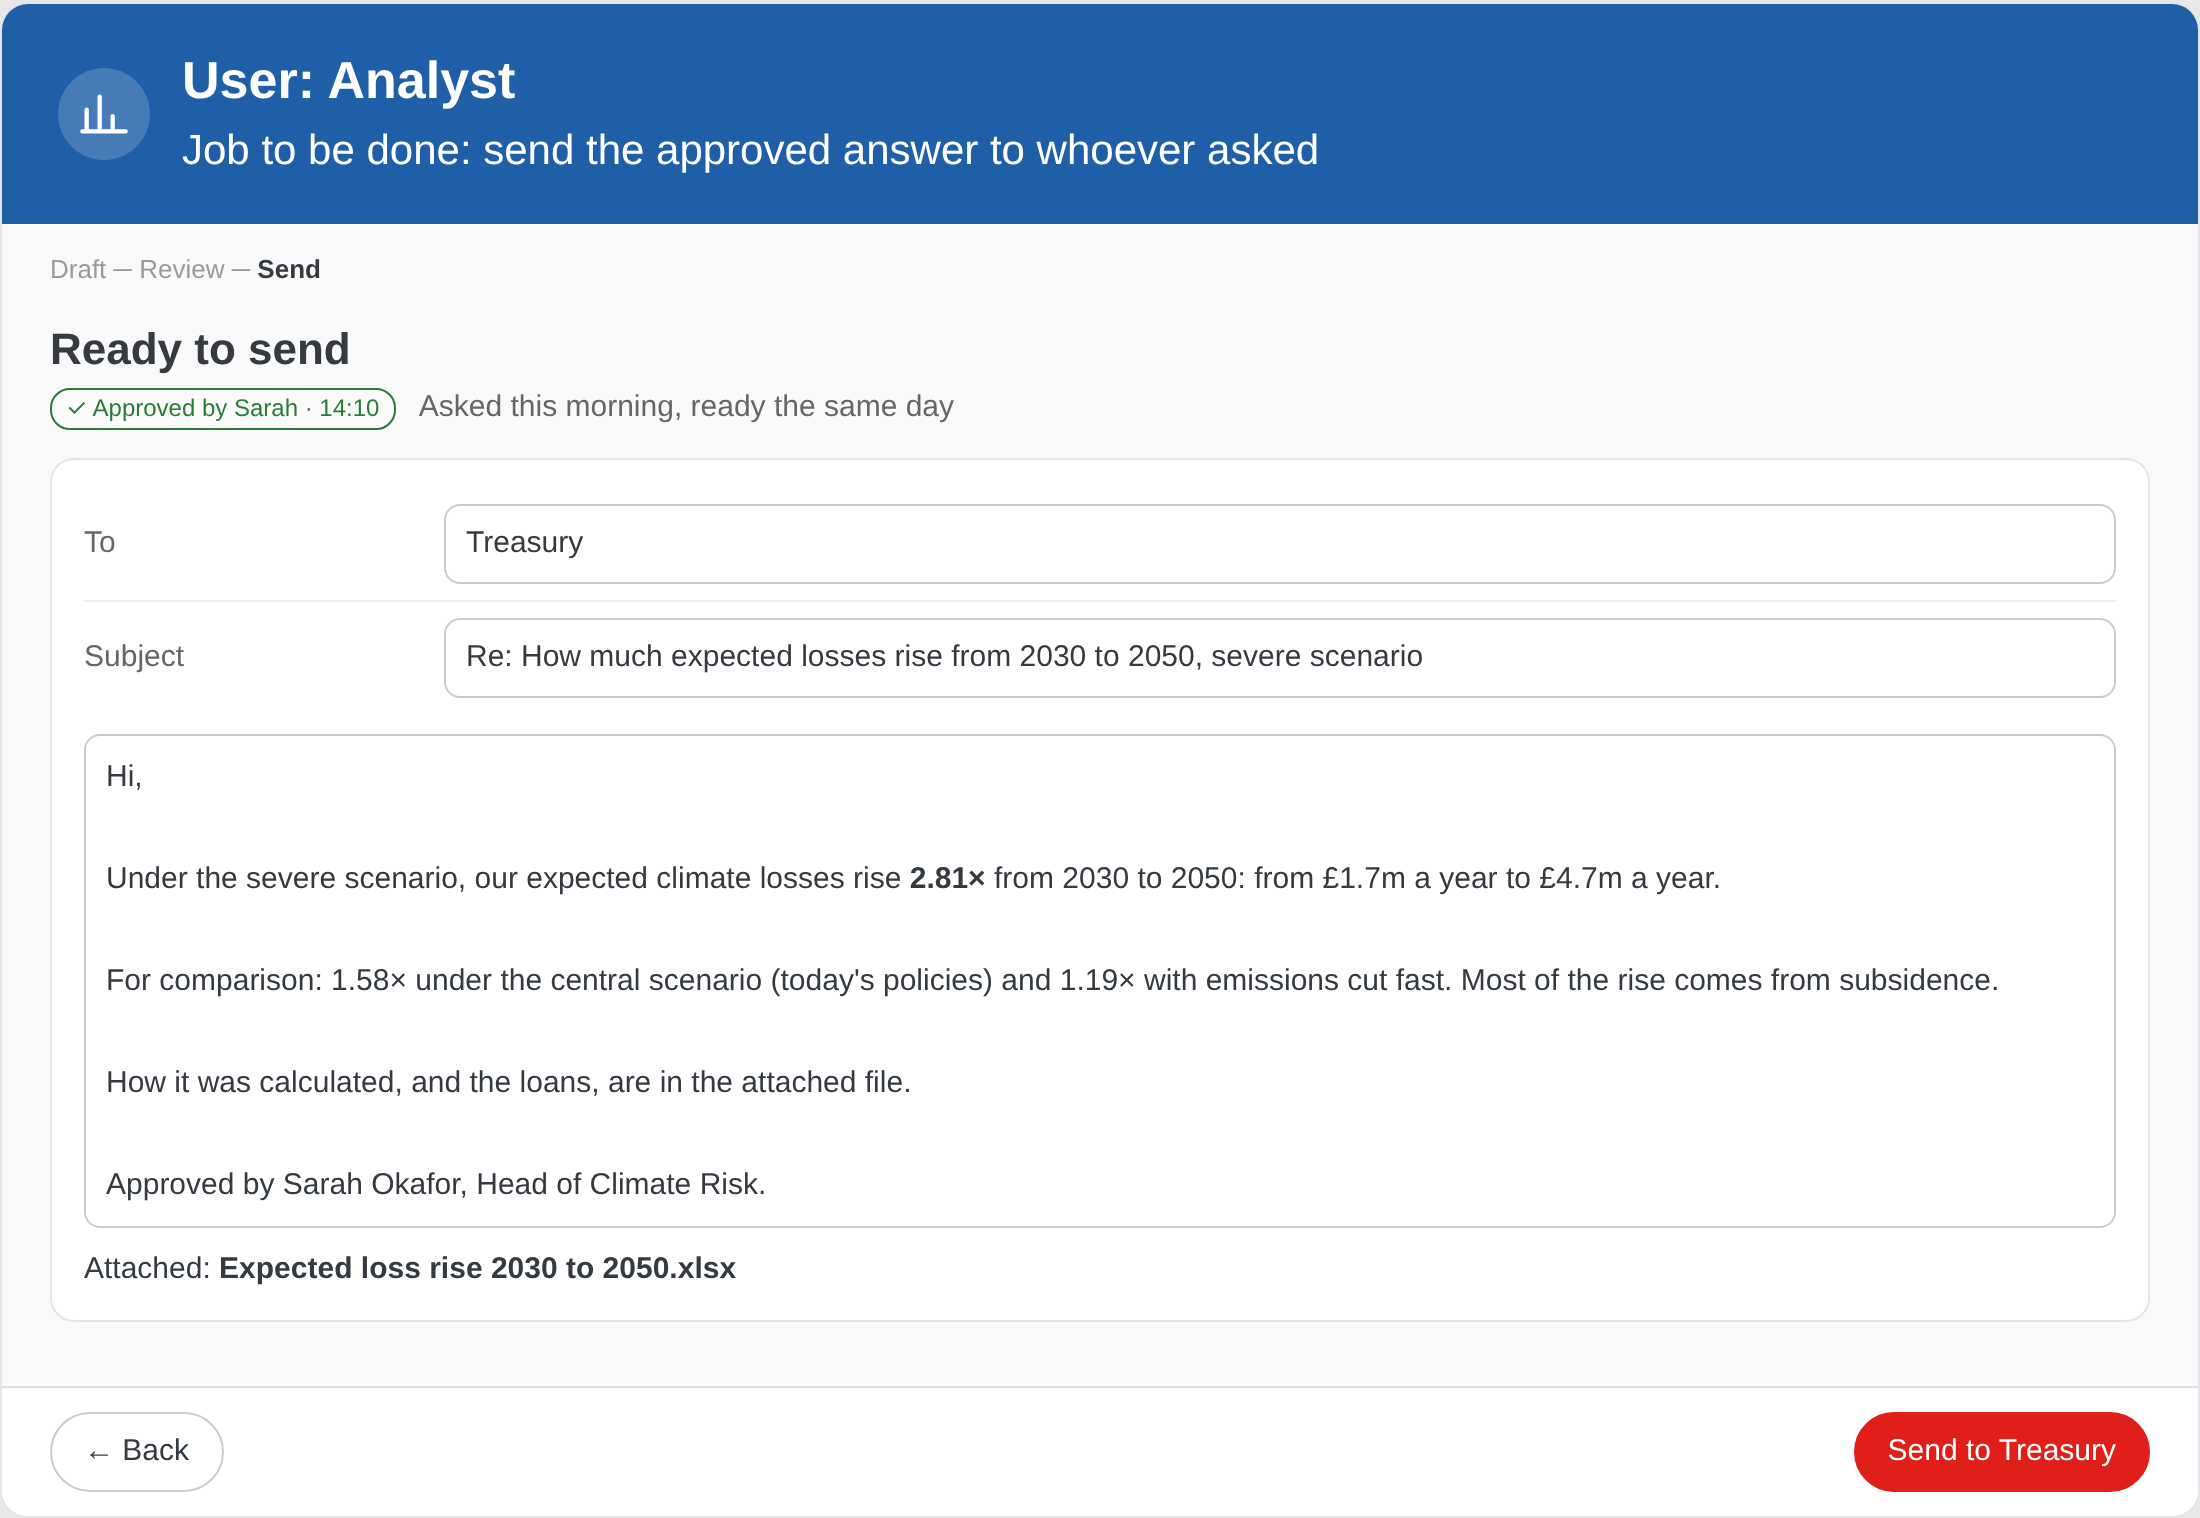
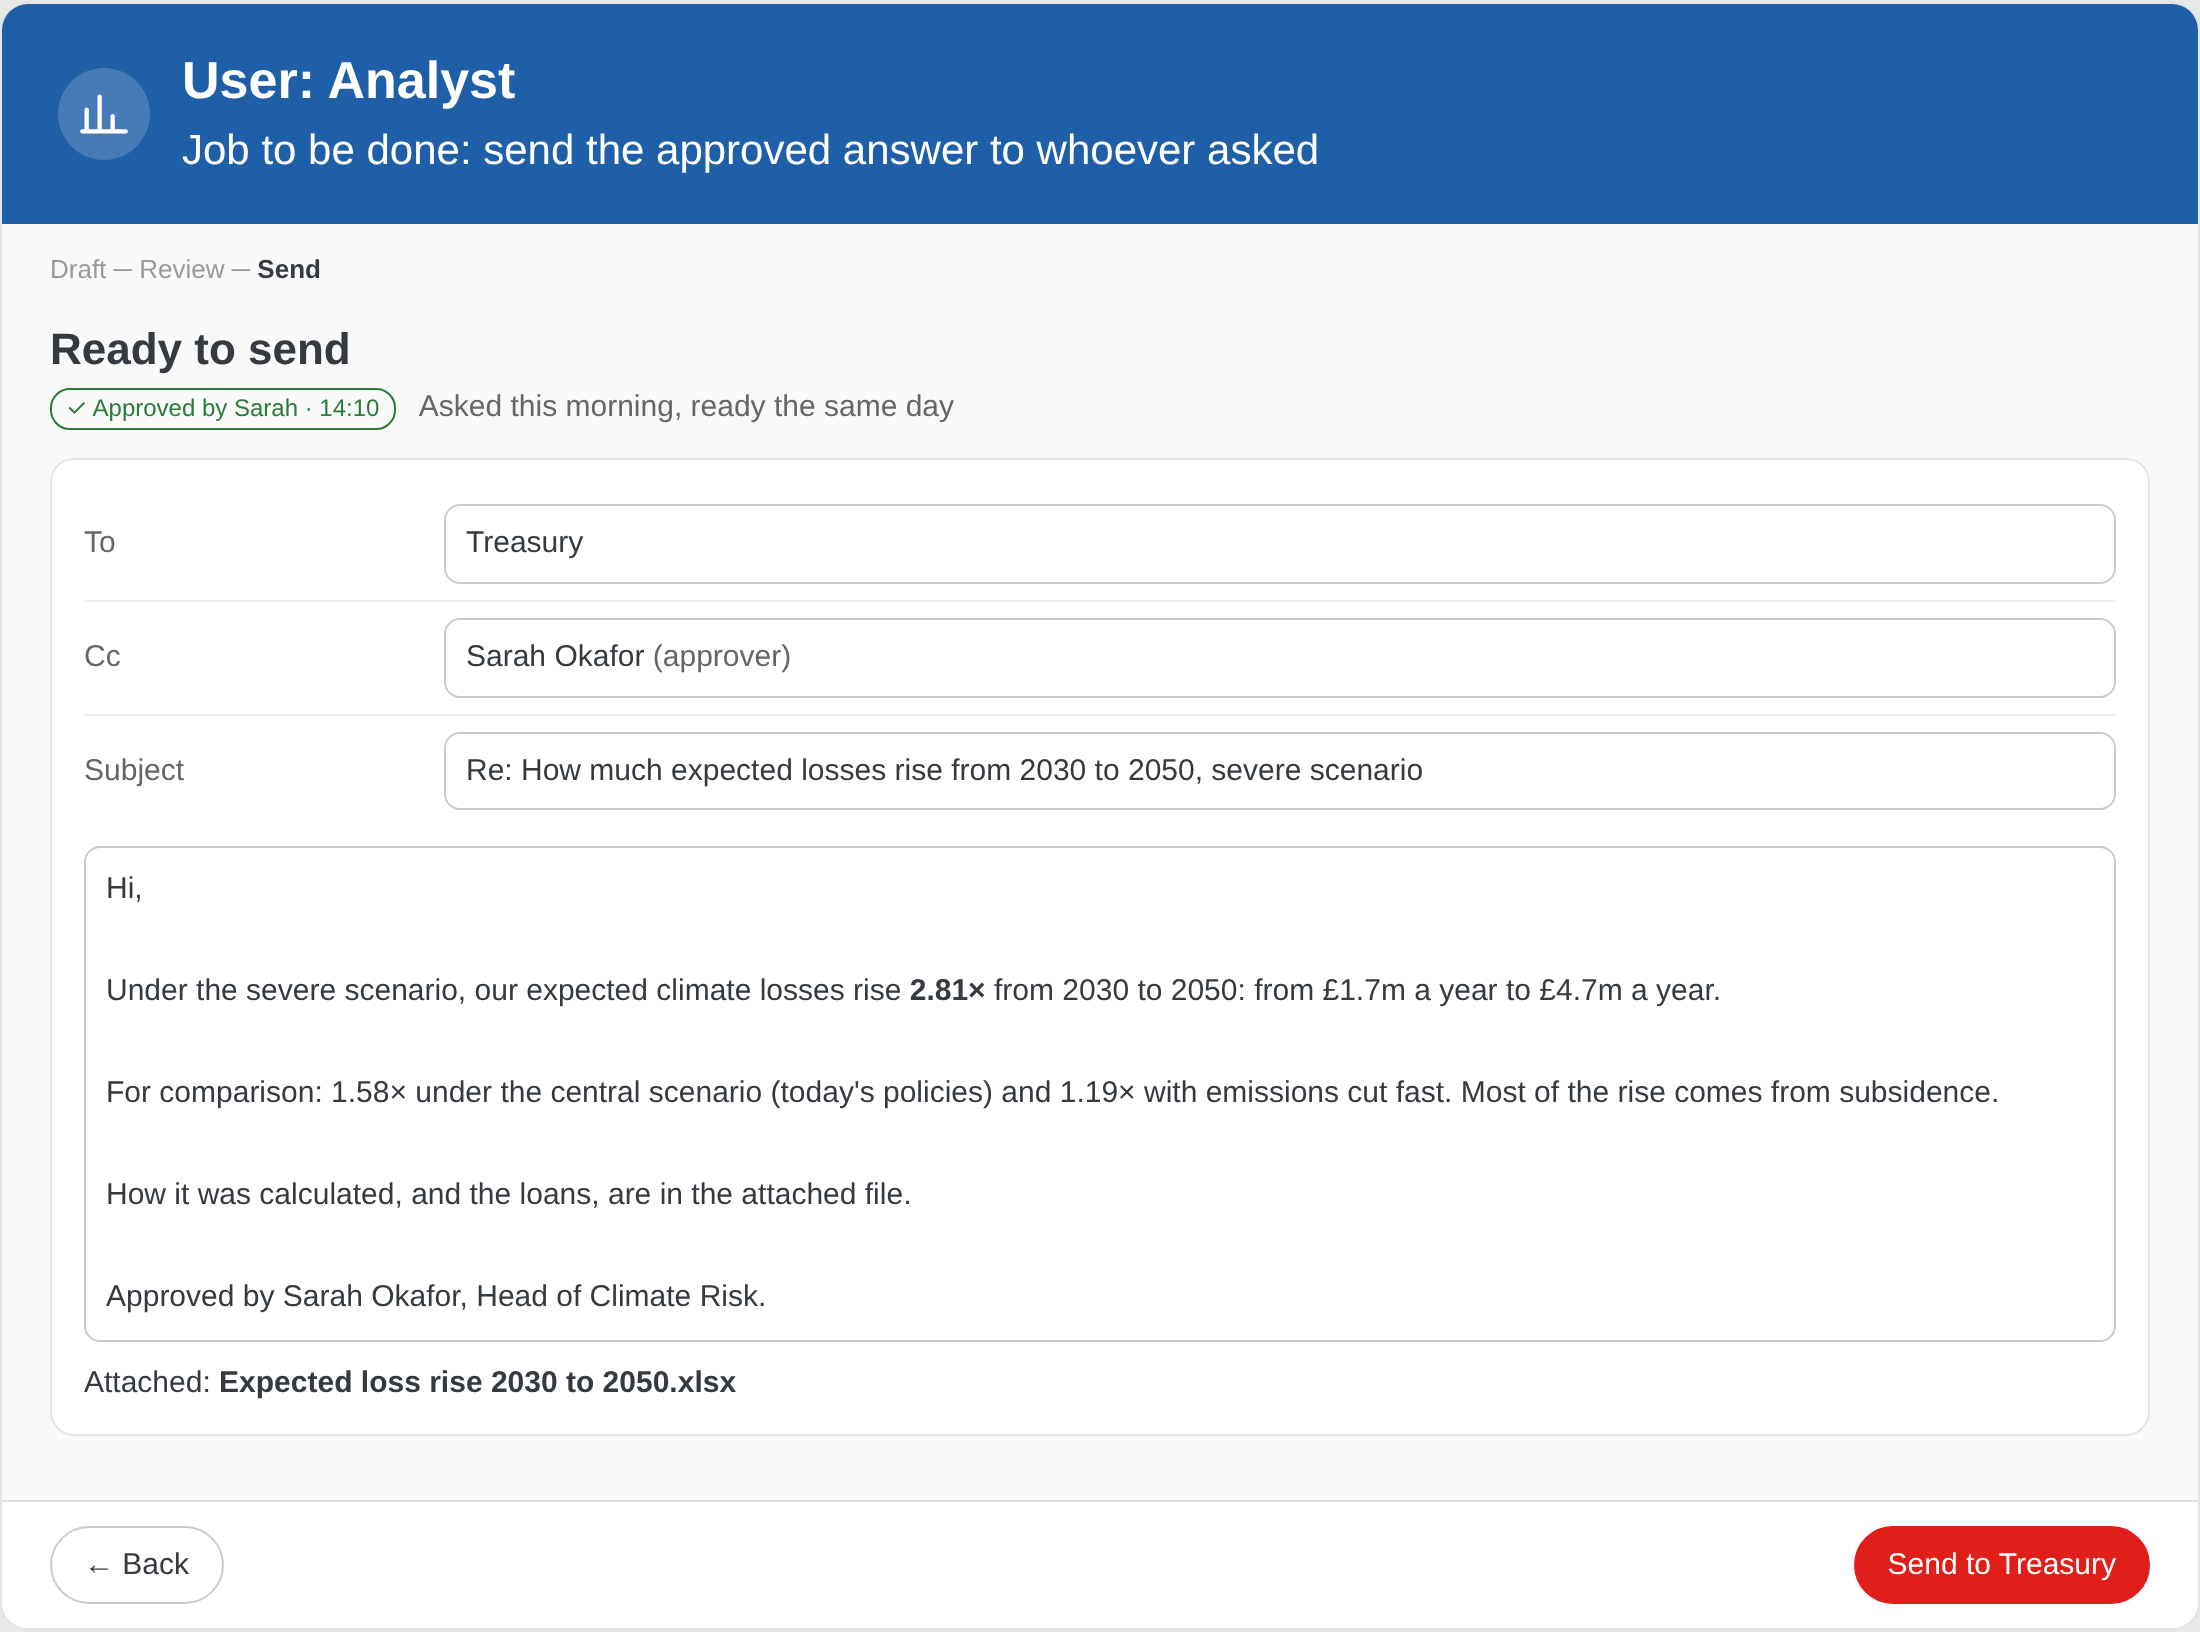
Run 1 screens: add-new-asker option in the dropdown; approver cc'd on the reply
Claude-Session: https://claude.ai/code/session_016JoguXTxkWcj5knaYbAtMZ

diff --git a/runs/run-1/design/solution-design.html b/runs/run-1/design/solution-design.html
@@ -66,6 +66,7 @@ body{font-family:Graphik,Helvetica,Arial,sans-serif;color:#343a40}
 .hdr2{background:#1f5fa8 !important;color:#fff;padding:20px 28px;font-size:26px;font-weight:700;display:flex;align-items:center;gap:16px}
 .hdr2 .sep{color:#8a6d1a}.hdr2 .ic{width:46px;height:46px;border-radius:50%;background:rgba(255,255,255,.18);display:inline-flex;align-items:center;justify-content:center;flex:none}
 .hdr2 .u{font-size:26px;font-weight:700}.hdr2 .jtbd{font-size:21px;font-weight:500;margin-top:2px}
+.menu{position:absolute;left:0;right:0;top:46px;background:#fff;border:1px solid #c8ccd0;border-radius:10px;box-shadow:0 8px 24px rgba(0,0,0,.12);z-index:5;padding:6px 0}.mi{padding:8px 14px}.mi.on{font-weight:600}.mi.add{border-top:1px solid #eef0f2;margin-top:4px;padding-top:10px;font-weight:600;text-decoration:underline}
 </style></head><body>
 
 <div class="screen" id="draft">
@@ -74,7 +75,8 @@ body{font-family:Graphik,Helvetica,Arial,sans-serif;color:#343a40}
 <div class="body"><h1>Draft</h1>
 <div class="card">
  <div class="row"><div class="k">Question</div><div class="input" style="grid-column:2/4">How much do <span class="hl">expected losses rise from 2030 to 2050</span> under the <span class="hl">severe scenario</span>?</div></div>
- <div class="row"><div class="k">Asked by</div><div class="input">Treasury ▾</div><div></div></div>
+ <div class="row"><div class="k">Asked by</div><div style="position:relative"><div class="input">Treasury ▾</div>
+  </div><div></div></div>
  <div class="row"><div class="k">Data</div><div style="grid-column:2/4">Spectra export, 30 Jun 2026 <span class="src" style="margin:0 18px 0 6px">Refresh</span> Loan book, 30 Sep 2026 <span class="src" style="margin-left:6px">Upload new</span></div></div>
 </div>
 <div class="card out">
@@ -139,9 +141,12 @@ body{font-family:Graphik,Helvetica,Arial,sans-serif;color:#343a40}
 <div class="q"><span class="tag" style="color:#2a7a3a;border-color:#2a7a3a">✓ Approved by Sarah · 14:10</span> &nbsp; Asked this morning, ready the same day</div>
 <div class="card">
  <div class="row"><div class="k">To</div><div class="input" style="grid-column:2/4">Treasury</div></div>
+ <div class="row"><div class="k">Cc</div><div class="input" style="grid-column:2/4">Sarah Okafor <span class="sub">(approver)</span></div></div>
  <div class="row"><div class="k">Subject</div><div class="input" style="grid-column:2/4">Re: How much expected losses rise from 2030 to 2050, severe scenario</div></div>
  <div class="input" style="margin-top:10px;line-height:1.7">Hi,<br><br>Under the severe scenario, our expected climate losses rise <b>2.81×</b> from 2030 to 2050: from £1.7m a year to £4.7m a year.<br><br>For comparison: 1.58× under the central scenario (today's policies) and 1.19× with emissions cut fast. Most of the rise comes from subsidence.<br><br>How it was calculated, and the loans, are in the attached file.<br><br>Approved by Sarah Okafor, Head of Climate Risk.</div>
  <div style="margin-top:10px">Attached: <b>Expected loss rise 2030 to 2050.xlsx</b></div></div>
 </div>
 <div class="foot"><span class="btn">← Back</span><span class="btn p">Send to Treasury</span></div></div>
+<div class="screen" id="askedby" style="width:900px;padding:24px 24px 300px">
+<div class="card"><div class="row"><div class="k">Asked by</div><div style="position:relative;grid-column:2/4"><div class="input">Treasury ▾</div><div class="menu"><div class="mi on">✓ Treasury</div><div class="mi">Credit committee</div><div class="mi">Risk committee</div><div class="mi">CRO</div><div class="mi">Mortgage pricing</div><div class="mi">Investor relations</div><div class="mi add">+ Add new asker</div></div></div></div></div></div>
 </body></html>
